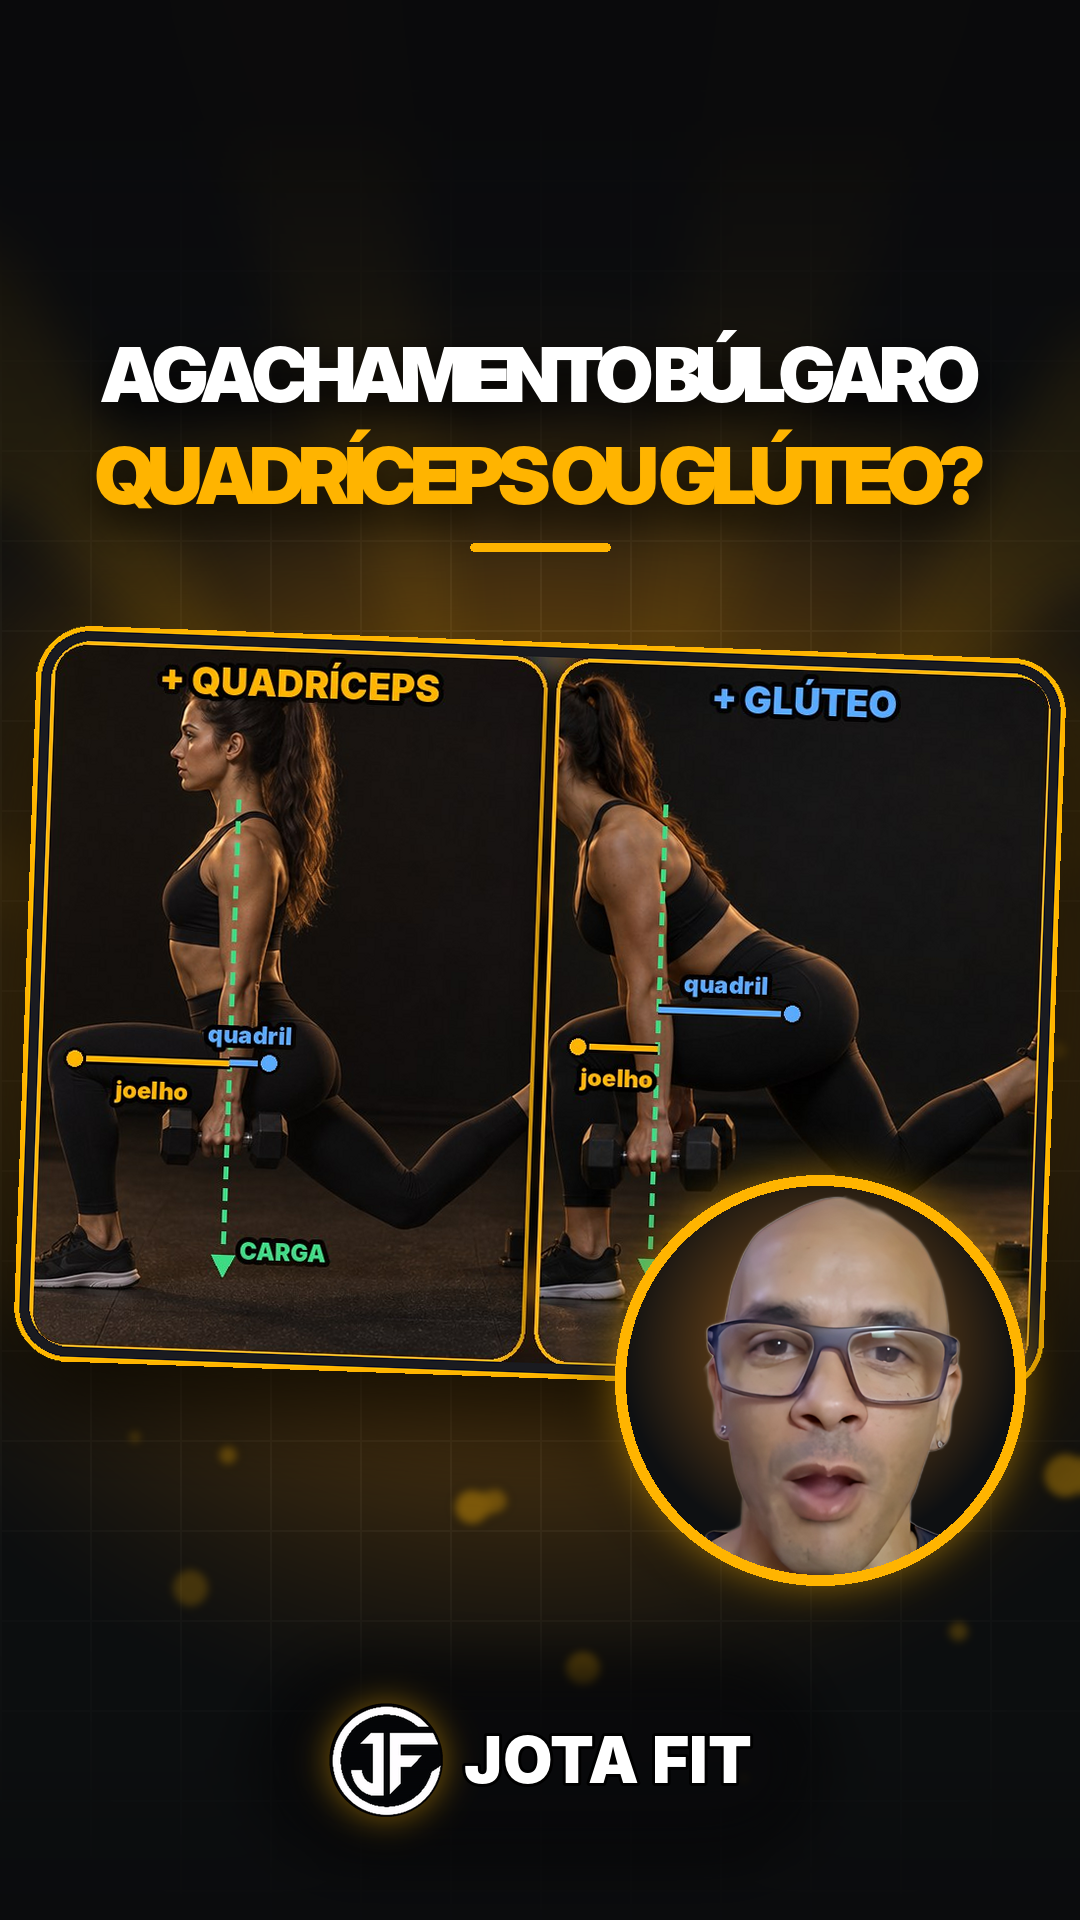
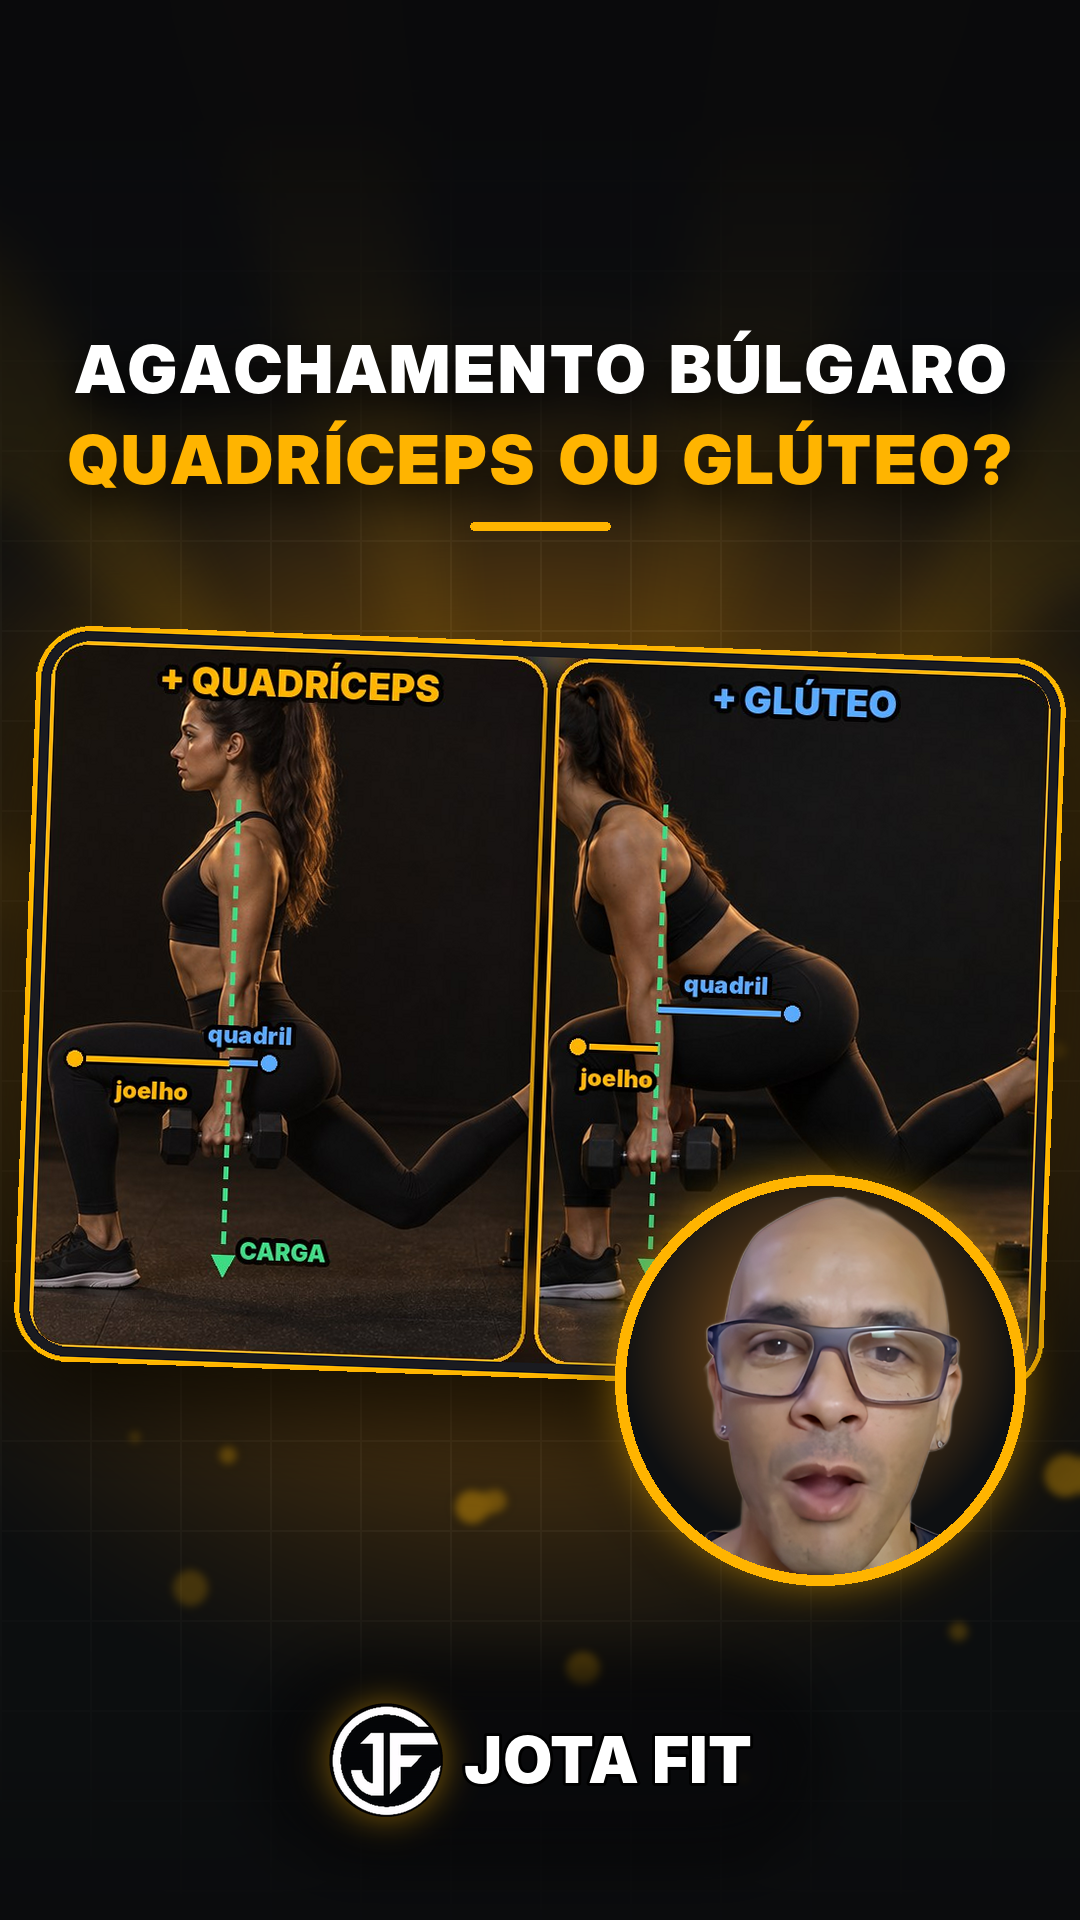
Capas: mais espaço entre letras nos títulos
Claude-Session: https://claude.ai/code/session_01UuH9TpKCs4xLYma23g83NG

Changed region(s): [[0.0611, 0.1562, 0.9472, 0.3125]]

diff --git a/analises/capas/covers.py b/analises/capas/covers.py
@@ -65,16 +65,16 @@ def place(lay, im, cx, cy, shadow=170, glow=None, glow_a=120):
 
 def tight(text, font, fill, track):
     ws = [font.getlength(c) for c in text]
-    im = Image.new('RGBA', (int(sum(ws) + track * (len(text) - 1) + 40), int(font.size * 1.4 + 40)), (0, 0, 0, 0)); d = ImageDraw.Draw(im); x = 20
-    for c, w in zip(text, ws): d.text((x, im.height / 2), c, font=font, fill=fill + (255,), anchor='lm'); x += w + track
+    im = Image.new('RGBA', (int(sum(ws) + track * (len(text) - 1) + 40 + font.size * 0.08 * text.count(' ')), int(font.size * 1.4 + 40)), (0, 0, 0, 0)); d = ImageDraw.Draw(im); x = 20
+    for c, w in zip(text, ws): d.text((x, im.height / 2), c, font=font, fill=fill + (255,), anchor='lm'); x += w + track + (font.size * 0.08 if c == ' ' else 0)
     return im.crop(im.getbbox())
 
 def headline(lay, l1, l2, y=330, s1=140, s2=132, maxw=920, **_):
     """Boxless: white line 1, amber line 2, soft depth shadow, thin accent rule."""
-    a = tight(l1, F('disp', s1), WHITE, -7)
-    if a.width > maxw: a = tight(l1, F('disp', int(s1 * maxw / a.width)), WHITE, -7)
-    b = tight(l2, F('disp', s2), YEL, -7)
-    if b.width > maxw: b = tight(l2, F('disp', int(s2 * maxw / b.width)), YEL, -7)
+    a = tight(l1, F('disp', s1), WHITE, 3)
+    if a.width > maxw: a = tight(l1, F('disp', int(s1 * maxw / a.width)), WHITE, 3)
+    b = tight(l2, F('disp', s2), YEL, 3)
+    if b.width > maxw: b = tight(l2, F('disp', int(s2 * maxw / b.width)), YEL, 3)
     ax, bx = int(W / 2 - a.width / 2), int(W / 2 - b.width / 2); by = y + a.height + 26
     sh = Image.new('RGBA', (W, H))
     for im, x, yy in ((a, ax, y), (b, bx, by)):
